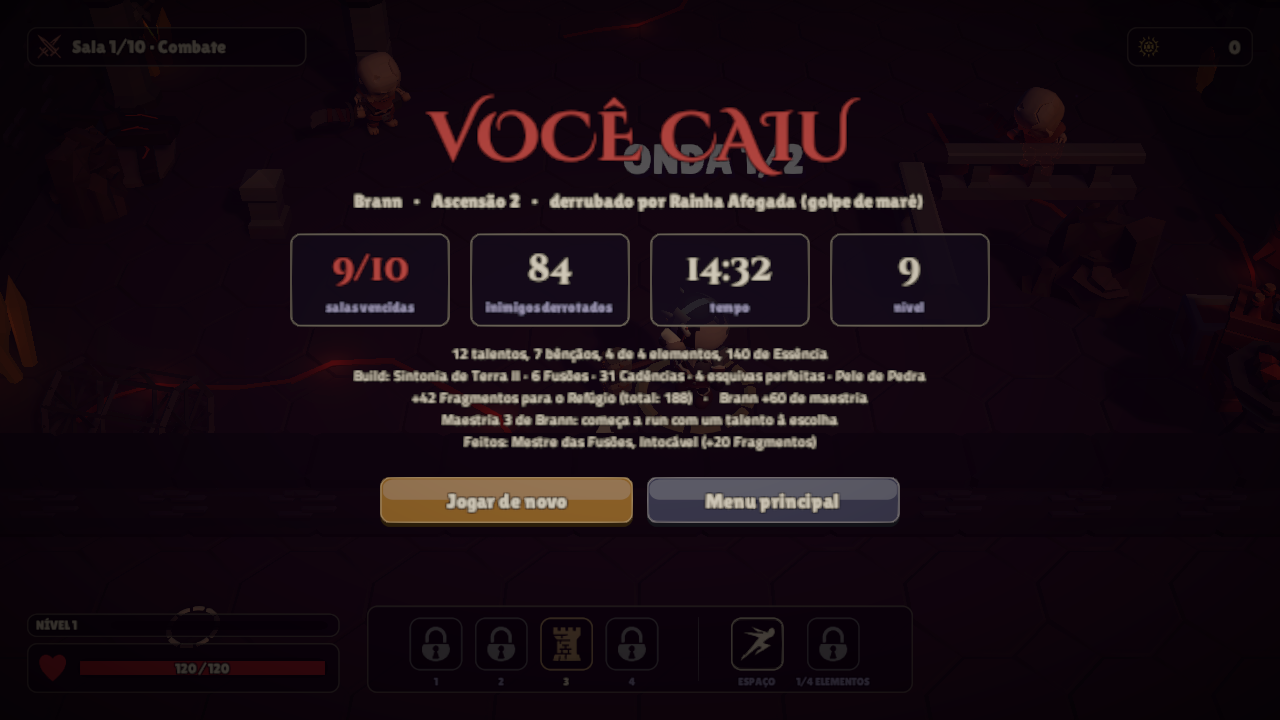
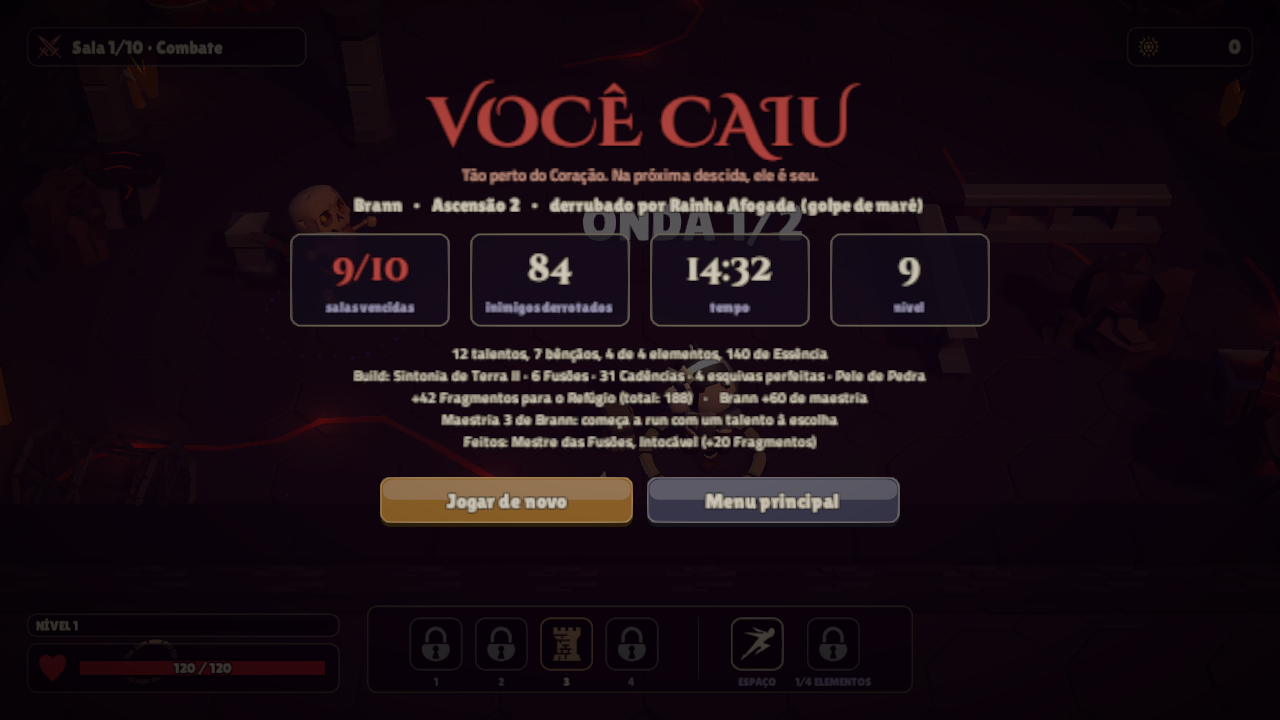
Resultado fecha com uma frase: na vitória, o chefe final que caiu (Guardião, Tecelã ou Rainha); na derrota, o trecho onde a run terminou. Fundo do resultado mais fechado

diff --git a/Assets/Game/UI/Hud.cs b/Assets/Game/UI/Hud.cs
@@ -240,7 +240,7 @@ namespace Quintessence.UI
             mapPanel = Overlay("Map", new Color(0.03f, 0.02f, 0.06f, 0.94f)); // mais fechado: o heroi e as faixas coloridas se misturavam
             UiKit.Text(UiKit.Rect("Title", mapPanel, new Vector2(0.5f, 1), new Vector2(0, -80), new Vector2(800, 70)), "MAPA", 56, UiKit.Cream);
             mapContent = UiKit.Rect("Content", mapPanel, center, new Vector2(0, -20), new Vector2(1500, 600));
-            resultPanel = Overlay("Result", new Color(0.03f, 0.02f, 0.06f, 0.9f));
+            resultPanel = Overlay("Result", new Color(0.03f, 0.02f, 0.06f, 0.96f)); // textos flutuantes da sala (ONDA 1/2) apareciam atras do resultado
             pausePanel = Overlay("Pause", new Color(0.03f, 0.02f, 0.06f, 0.86f));
 
             fade = UiKit.Image(UiKit.Stretch("Fade", root), null, new Color(0, 0, 0, 0));
@@ -992,8 +992,12 @@ namespace Quintessence.UI
 
         /// Fim de run: titulo, uma linha de quem jogou, quatro numeros grandes (salas, inimigos, tempo, nivel)
         /// e, embaixo, a build e o que a run rendeu no Refugio.
-        public void ShowResult(bool victory, string header, (string value, string label)[] tiles, string details, Action again, Action menu)
+        public string LastEpilogue { get; private set; } = "";
+
+        /// epilogue: uma frase de fechamento sob o titulo (quem caiu, onde a run terminou). Vazia = sem frase.
+        public void ShowResult(bool victory, string header, (string value, string label)[] tiles, string details, Action again, Action menu, string epilogue = "")
         {
+            LastEpilogue = epilogue ?? "";
             if (tipRoot != null) tipRoot.gameObject.SetActive(false);
             ClearChapter(); // morreu durante o cartao de capitulo: o titulo do trecho nao fica por cima do resultado
             queuedBanner = null; tipSuspended = false;
@@ -1001,10 +1005,14 @@ namespace Quintessence.UI
             foreach (Transform child in resultPanel) Destroy(child.gameObject);
             var center = new Vector2(0.5f, 0.5f);
             var accent = victory ? new Color(0.9f, 0.76f, 0.42f) : new Color(0.78f, 0.3f, 0.28f);
-            var title = UiKit.Text(UiKit.Rect("Title", resultPanel, center, new Vector2(0, 330), new Vector2(1400, 120)),
+            bool hasEpilogue = !string.IsNullOrEmpty(epilogue);
+            var title = UiKit.Text(UiKit.Rect("Title", resultPanel, center, new Vector2(0, hasEpilogue ? 352 : 330), new Vector2(1400, 120)),
                 victory ? "VITÓRIA" : "VOCÊ CAIU", 104, accent);
             title.font = GameFonts.Title;
-            var head = UiKit.Text(UiKit.Rect("Header", resultPanel, center, new Vector2(0, 238), new Vector2(1500, 40)), header, 28, UiKit.Cream);
+            if (hasEpilogue)
+                UiKit.Fit(UiKit.Text(UiKit.Rect("Epilogue", resultPanel, center, new Vector2(0, 278), new Vector2(1400, 36)), epilogue, 26,
+                    Color.Lerp(accent, UiKit.Cream, 0.55f), TextAnchor.MiddleCenter, false), 18, 26);
+            var head = UiKit.Text(UiKit.Rect("Header", resultPanel, center, new Vector2(0, hasEpilogue ? 232 : 238), new Vector2(1500, 40)), header, 28, UiKit.Cream);
             UiKit.Fit(head, 18, 28);
             int n = tiles?.Length ?? 0;
             for (int i = 0; i < n; i++)

diff --git a/Assets/Game/Game/RunDirector.cs b/Assets/Game/Game/RunDirector.cs
@@ -1100,10 +1100,26 @@ namespace Quintessence.Game
                 + (NewFeats.Count > 0 ? $"\nFeito{(NewFeats.Count > 1 ? "s" : "")}: {string.Join(", ", NewFeats.ConvertAll(Feats.Name))} (+{NewFeats.Count * Feats.Reward} Fragmentos)" : "")
                 + (NewAscension > 0 ? $"\nAscensão {NewAscension} liberada: escolha no título para enfrentar inimigos mais fortes" : "");
             Sfx.Play(victory ? "victory" : "defeat");
-            hud.ShowResult(victory, header, tiles, details, GameFlow.RestartRun, GameFlow.ToTitle);
+            hud.ShowResult(victory, header, tiles, details, GameFlow.RestartRun, GameFlow.ToTitle, Epilogue(victory));
             // feito novo: um sino depois do som do resultado
             // os do meio da run ja tocaram na hora
             if (endFeats.Count > 0) { yield return new WaitForSecondsRealtime(0.9f); Sfx.Play("feat"); }
+        }
+
+        /// Frase de fechamento do resultado: na vitoria, o chefe final que caiu; na derrota, o trecho onde a run terminou.
+        public string Epilogue(bool victory)
+        {
+            if (victory)
+                return WeaverRun ? "Os fios da Tecelã se desfazem em cinza. Os quatro elementos se calam, e o quinto responde."
+                    : QueenRun ? "A Rainha Afogada volta às águas paradas, e o Coração das Cinzas bate de novo."
+                    : "O Guardião tomba sobre as próprias cinzas. A Quintessência desperta em você.";
+            return lastBiome switch
+            {
+                Biome.Crypt => "A Cripta Afogada fecha as águas sobre mais um herói.",
+                Biome.Garden => "O Jardim de Pedra ganha mais uma estátua.",
+                Biome.Heart => "Tão perto do Coração. Na próxima descida, ele é seu.",
+                _ => "Os Salões de Cinza guardam mais um nome. O Refúgio guarda o que você aprendeu.",
+            };
         }
 
         // ---------- trechos da run ----------

diff --git a/Assets/Game/Game/Tests/PlayMode/AspectShots.cs b/Assets/Game/Game/Tests/PlayMode/AspectShots.cs
@@ -171,7 +171,8 @@ namespace Quintessence.Game.PlayTests
                 + "\nBuild: Sintonia de Terra II · 6 Fusões · 31 Cadências · 4 esquivas perfeitas · Pele de Pedra"
                 + "\n+42 Fragmentos para o Refúgio (total: 188)   ·   Brann +60 de maestria"
                 + "\nMaestria 3 de Brann: começa a run com um talento à escolha"
-                + "\nFeitos: Mestre das Fusões, Intocável (+20 Fragmentos)", () => { }, () => { });
+                + "\nFeitos: Mestre das Fusões, Intocável (+20 Fragmentos)", () => { }, () => { },
+                "Tão perto do Coração. Na próxima descida, ele é seu.");
             for (int i = 0; i < 40; i++) yield return null;
             foreach (var s in sizes) yield return Shoot(Camera.main, $"Logs/aspect/p_resultado_{s.x}x{s.y}.png", s);
             yield return Shoot(Camera.main, "docs/img/s6_resultado.png", new Vector2Int(1280, 720));

diff --git a/Assets/Game/Game/Tests/PlayMode/RunPlayTests.cs b/Assets/Game/Game/Tests/PlayMode/RunPlayTests.cs
@@ -398,6 +398,7 @@ namespace Quintessence.Game.PlayTests
             Assert.IsTrue(director.Finished, "a run nao terminou no tempo limite");
             Assert.IsTrue(director.Victory, $"o heroi caiu na sala {director.Run.Depth + 1} ({director.Run.Current.Type})");
             Assert.Contains(Feat.FirstWin, director.NewFeats, "a primeira vitoria cumpre o feito");
+            StringAssert.Contains(director.WeaverRun ? "Tecelã" : director.QueenRun ? "Rainha" : "Guardião", director.Epilogue(true), "a vitoria fala do chefe que caiu");
             Assert.IsTrue(MetaStore.Current.Has(Feat.FirstWin));
             var build = director.BuildLine();
             Assert.IsTrue(build.Length == 0 || build.StartsWith("\nBuild: "), "linha de build no resultado: " + build);

diff --git a/Assets/Game/Game/Tests/PlayMode/FlowTests.cs b/Assets/Game/Game/Tests/PlayMode/FlowTests.cs
@@ -108,6 +108,8 @@ namespace Quintessence.Game.PlayTests
             hero.TakeDamage(new DamageInfo(99999f, ElementType.None, Team.Enemy));
             yield return WaitFor(() => hud.ResultVisible, 8f, "morrer durante a troca de sala deveria levar ao resultado");
             Assert.IsTrue(director.Finished);
+            Assert.AreEqual(director.Epilogue(false), hud.LastEpilogue, "o resultado fecha com a frase do trecho onde a run terminou");
+            Assert.IsNotEmpty(hud.LastEpilogue);
             Assert.IsNull(RunSaveStore.Load(), "run encerrada nao deixa Continuar para tras");
 
             // 2) Menu principal no resultado: o titulo abre, sem Continuar, e escolher um heroi comeca uma run nova
